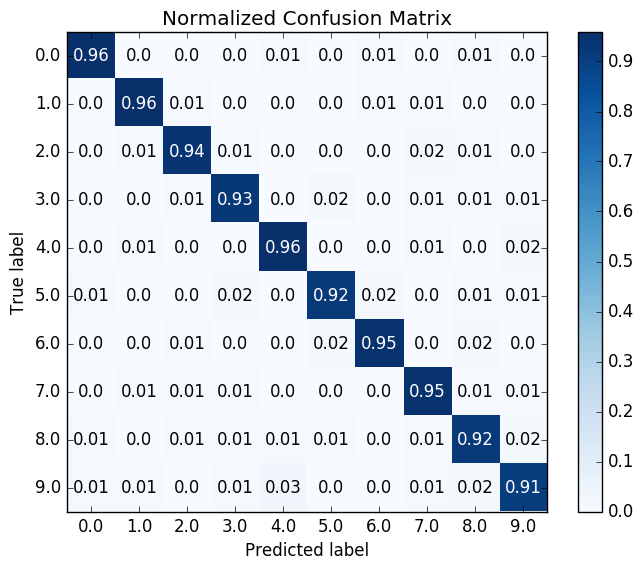
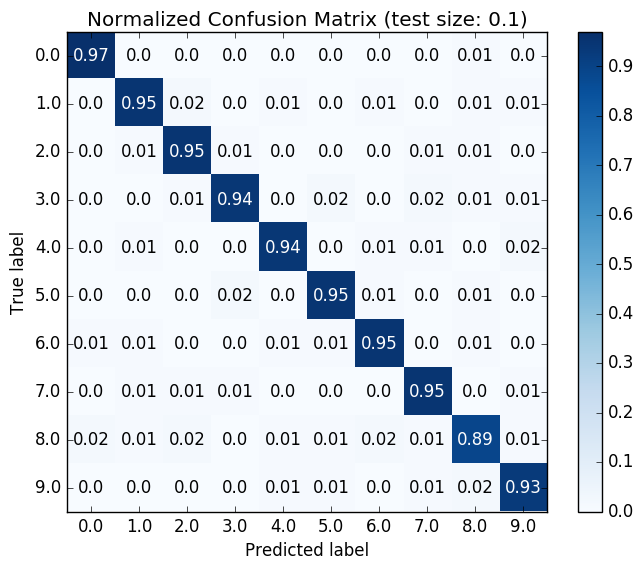
part2

diff --git a/trab1/part2/arvore.py b/trab1/part2/arvore.py
@@ -32,5 +32,10 @@ if __name__ == "__main__":
         os.makedirs('./arvore/')
     for x in sizes:
         y_test, y_pred = main(X_data, y_data, x)
-        skplt.plot_confusion_matrix(y_test, y_pred, normalize=True)
+        skplt.plot_confusion_matrix(
+            y_test,
+            y_pred,
+            normalize=True,
+            title='Normalized Confusion Matrix (test size: ' + str(x) + ')'
+        )
         plt.savefig('./arvore/' + str(int(x*10)) + '.png', bbox_inches='tight')

diff --git a/trab1/part2/nb.py b/trab1/part2/nb.py
@@ -34,5 +34,10 @@ if __name__ == "__main__":
         os.makedirs('./nb/')
     for x in sizes:
         y_test, y_pred = main(X_data, y_data, x)
-        skplt.plot_confusion_matrix(y_test, y_pred, normalize=True)
+        skplt.plot_confusion_matrix(
+            y_test,
+            y_pred,
+            normalize=True,
+            title='Normalized Confusion Matrix (test size: ' + str(x) + ')'
+        )
         plt.savefig('./nb/' + str(int(x*10)) + '.png', bbox_inches='tight')
